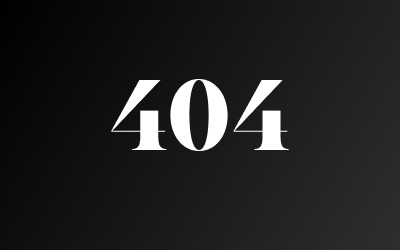
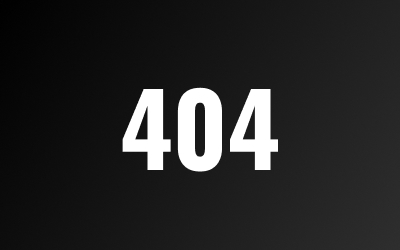
6.1.0

Changed region(s): [[0.27, 0.308, 0.72, 0.7]]

diff --git a/src/main.css b/src/main.css
@@ -132,11 +132,6 @@ a:focus-visible, .a:focus-visible {
   color: var(--lightgrey);
 }
 
-.black {
-  font-family: "Meshed Display Black", serif;
-  font-weight: 900;
-}
-
 .button {
   position: relative;
   display: inline-block;
@@ -177,15 +172,28 @@ a:focus-visible, .a:focus-visible {
   color: var(--black);
 }
 
+header .logo {
+  margin: 0;
+}
+header .logo svg {
+  height: 2.2rem;
+  width: max-content;
+}
+header .logo:hover svg path {
+  fill: var(--lightgrey);
+}
+
 header, footer {
-  display: grid;
   margin: 1rem 0;
   padding: 0 0.5rem;
 }
 header {
-  grid-template-columns: max-content auto;
+  display: flex;
+  justify-content: space-between;
+  align-items: center;
 }
 footer {
+  display: grid;
   grid-template-columns: auto max-content;
 }
 
@@ -364,5 +372,8 @@ a.card:focus {
   }
   header nav a, footer nav a, footer p {
     padding: 0 0.5rem;
+  }
+  footer a {
+    text-decoration: underline;
   }
 }

diff --git a/.eleventy.js b/.eleventy.js
@@ -53,9 +53,9 @@ module.exports = function(eleventyConfig) {
   eleventyConfig.addFilter("limit", (arr, limit) => arr.slice(0, limit));
 
   // version
-  eleventyConfig.addShortcode("version", () => "6.0.5");
+  eleventyConfig.addShortcode("version", () => "6.1.0");
 
-  eleventyConfig.addNunjucksAsyncShortcode("image", imageShortcode);
+  eleventyConfig.addAsyncShortcode("image", imageShortcode);
 
   eleventyConfig.addShortcode("year", () => `${new Date().getFullYear()}`);
 

diff --git a/src/code-projects/snow.md b/src/code-projects/snow.md
@@ -1,0 +1,7 @@
+---
+title: snow
+id: snow
+tech: CSS
+date: 2022-12-23
+link: https://github.com/ZacharyCrespin/snow
+---
